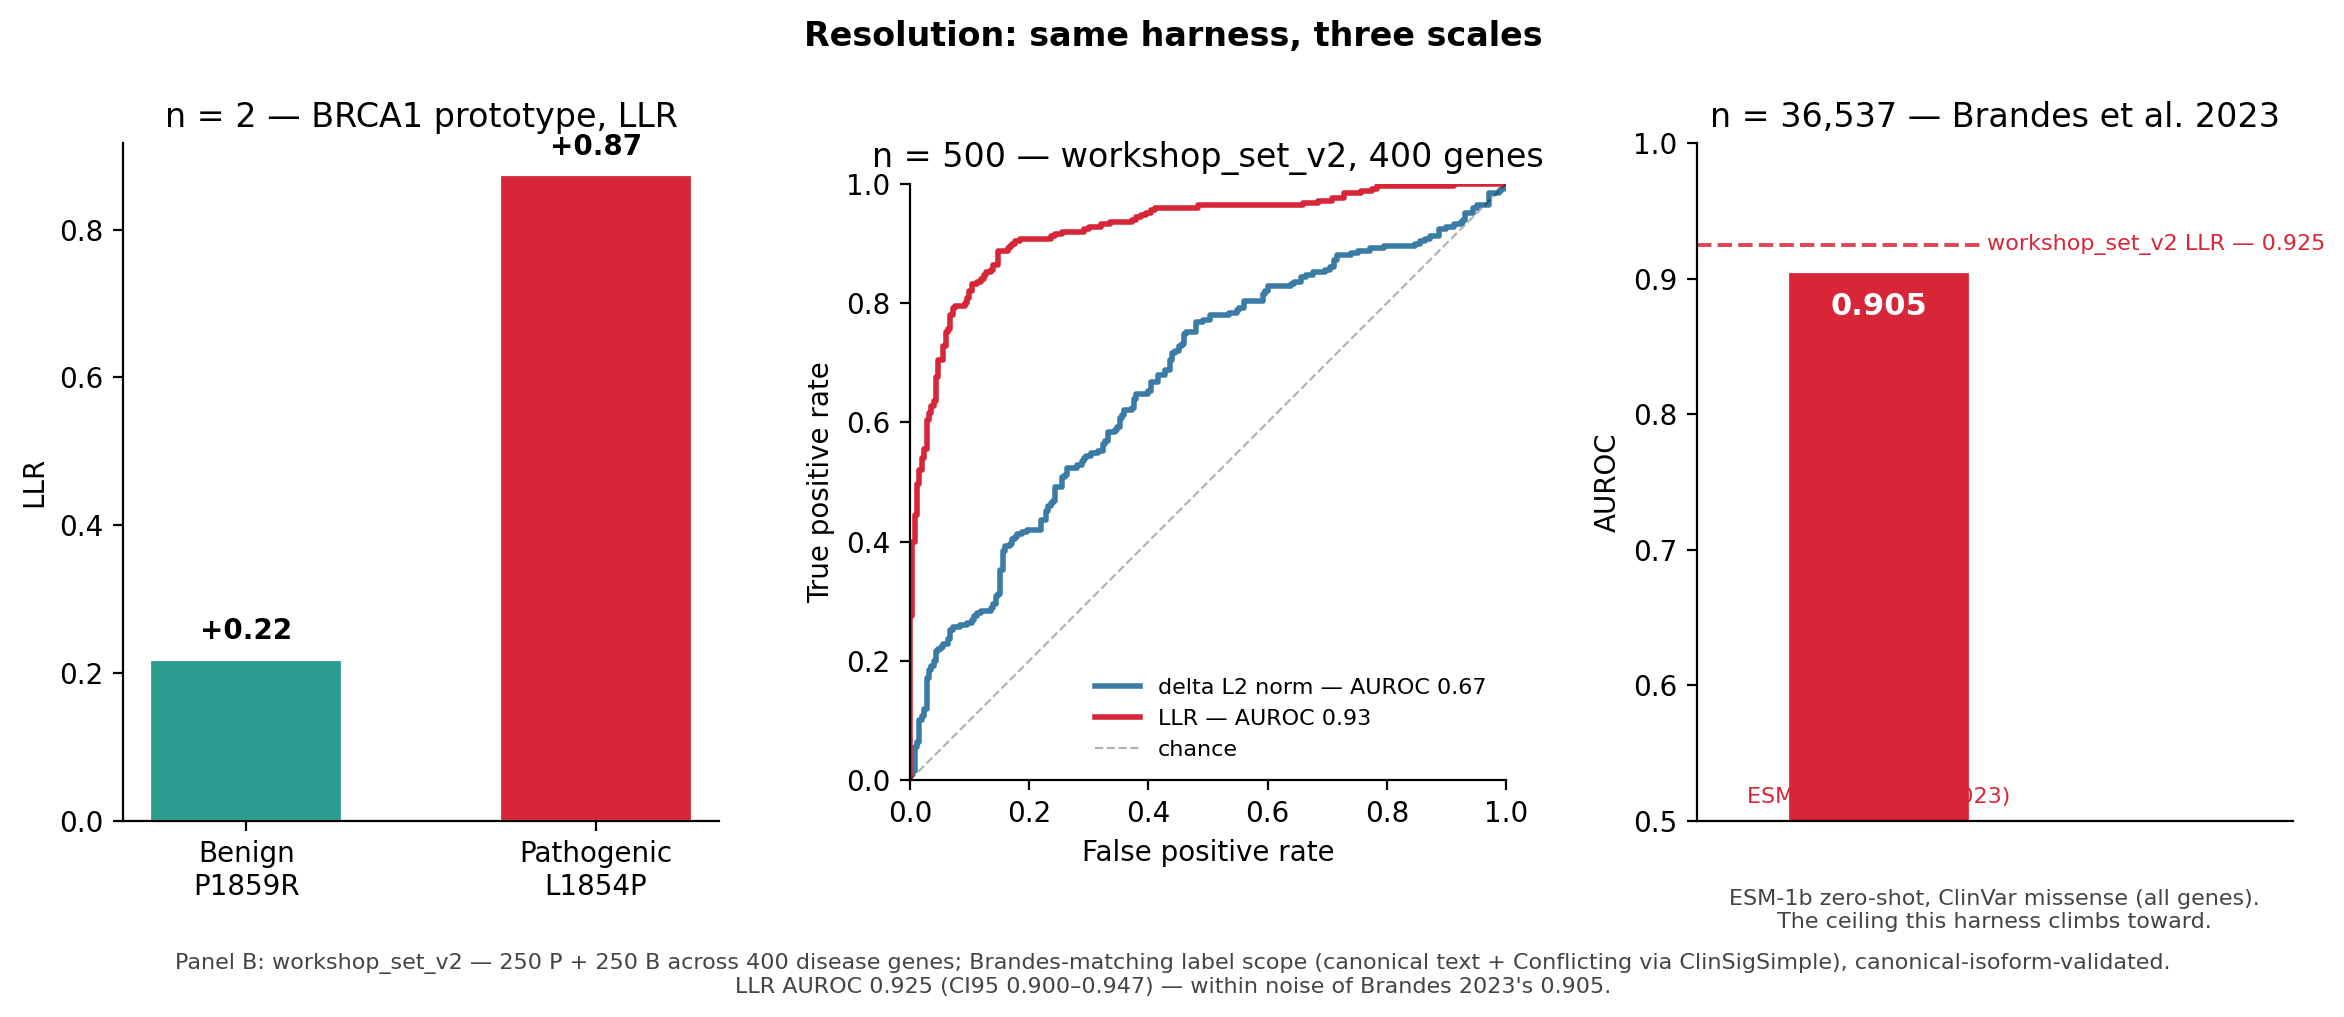
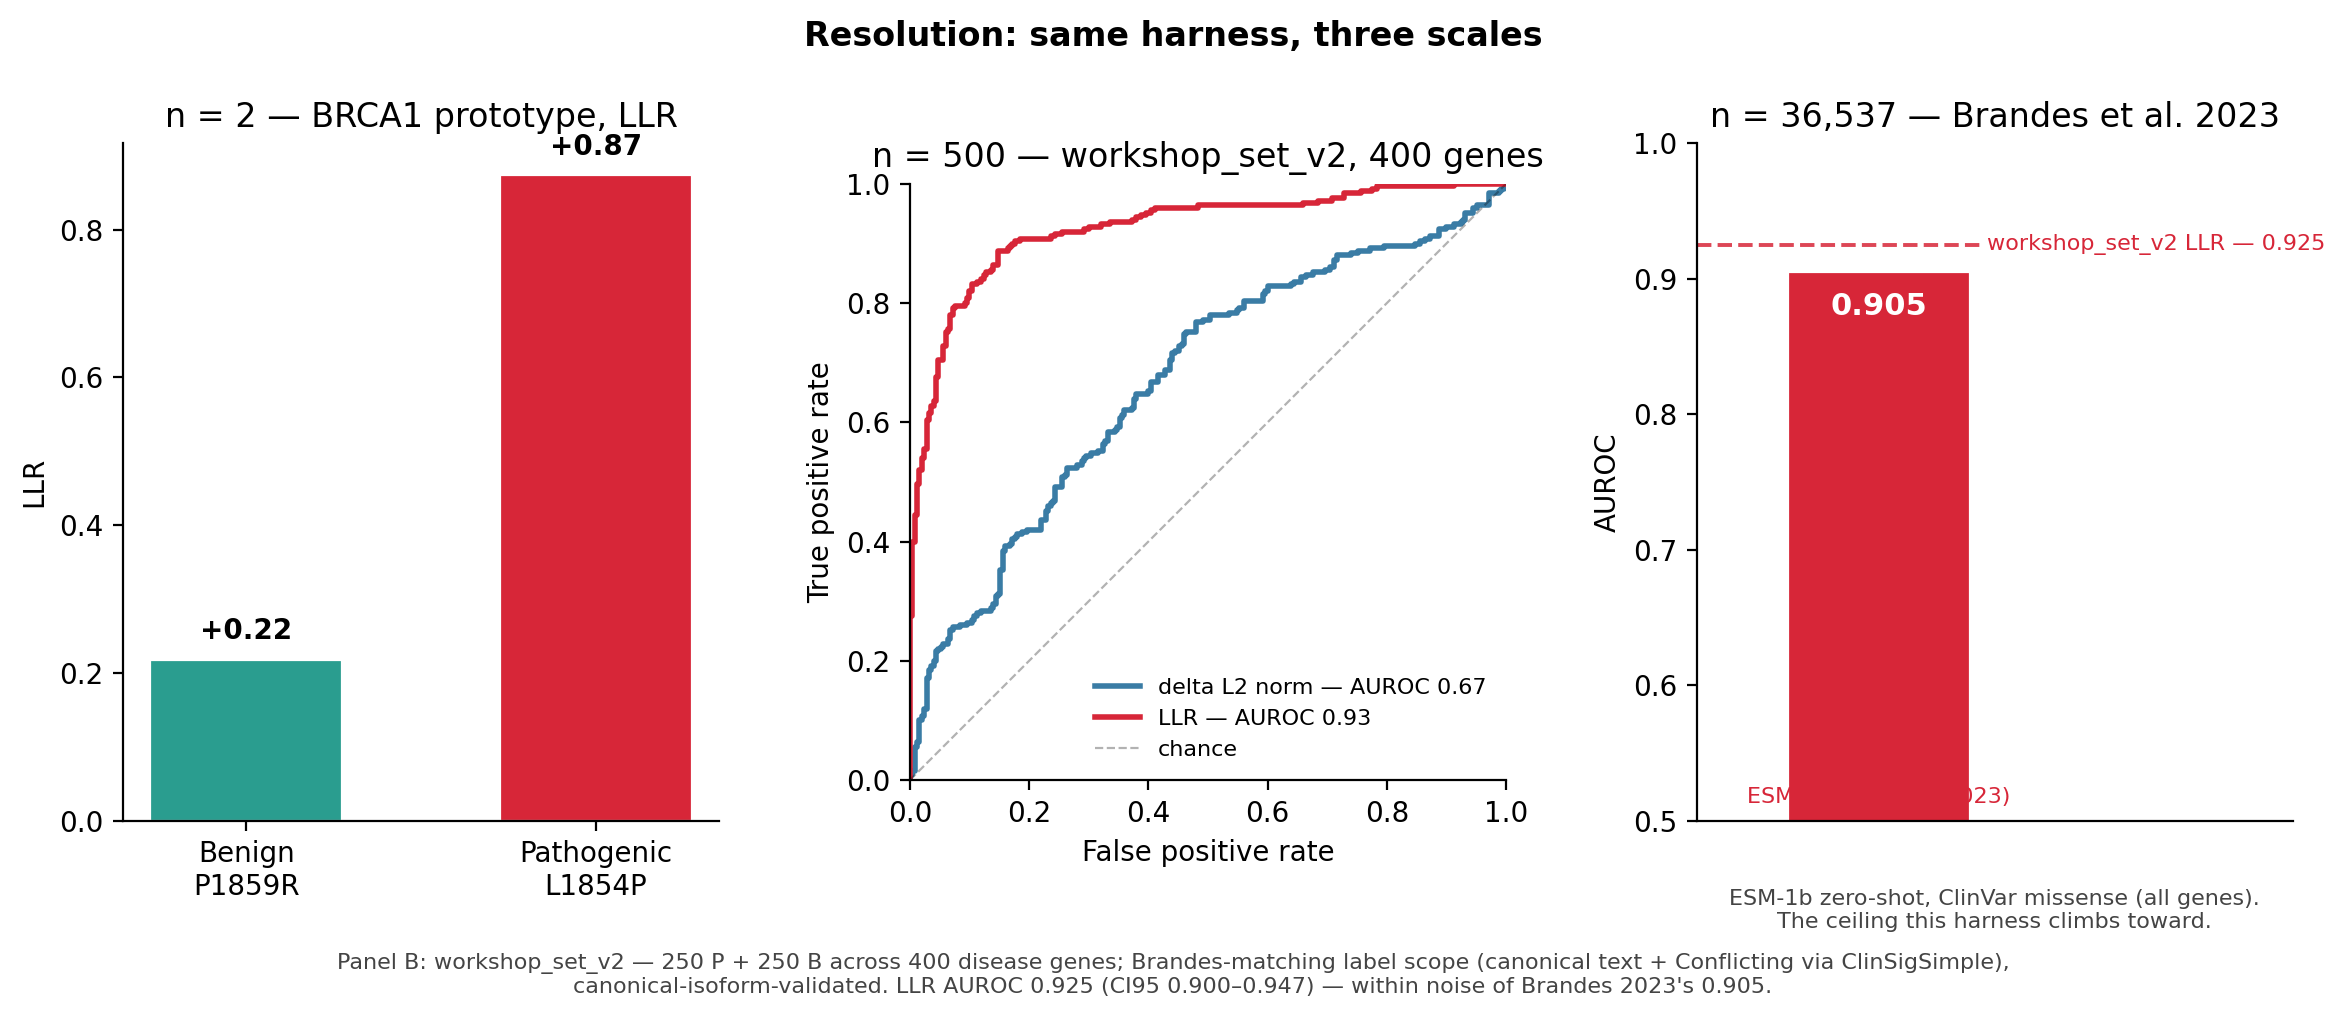
Move caption line break to after "via ClinSigSimple),"
Lets the canonical-isoform-validation note + the AUROC result share
the second line. Line 1 carries the composition + label-scope rule;
line 2 carries the methodology footnote + the headline number.

Changed region(s): [[0.1246, 0.9145, 0.9032, 0.9754]]

diff --git a/experiments/analysis/01_resolution_panels.py b/experiments/analysis/01_resolution_panels.py
@@ -229,8 +229,8 @@ def main() -> int:
     fig.text(
         0.5, -0.04,
         f"Panel B: workshop_set_v2 — 250 P + 250 B across {n_genes} disease genes; "
-        "Brandes-matching label scope (canonical text + Conflicting via ClinSigSimple), "
-        "canonical-isoform-validated.\n"
+        "Brandes-matching label scope (canonical text + Conflicting via ClinSigSimple),\n"
+        "canonical-isoform-validated. "
         "LLR AUROC 0.925 (CI95 0.900–0.947) — within noise of Brandes 2023's 0.905.",
         ha="center", va="top", fontsize=8, color="#444444",
     )